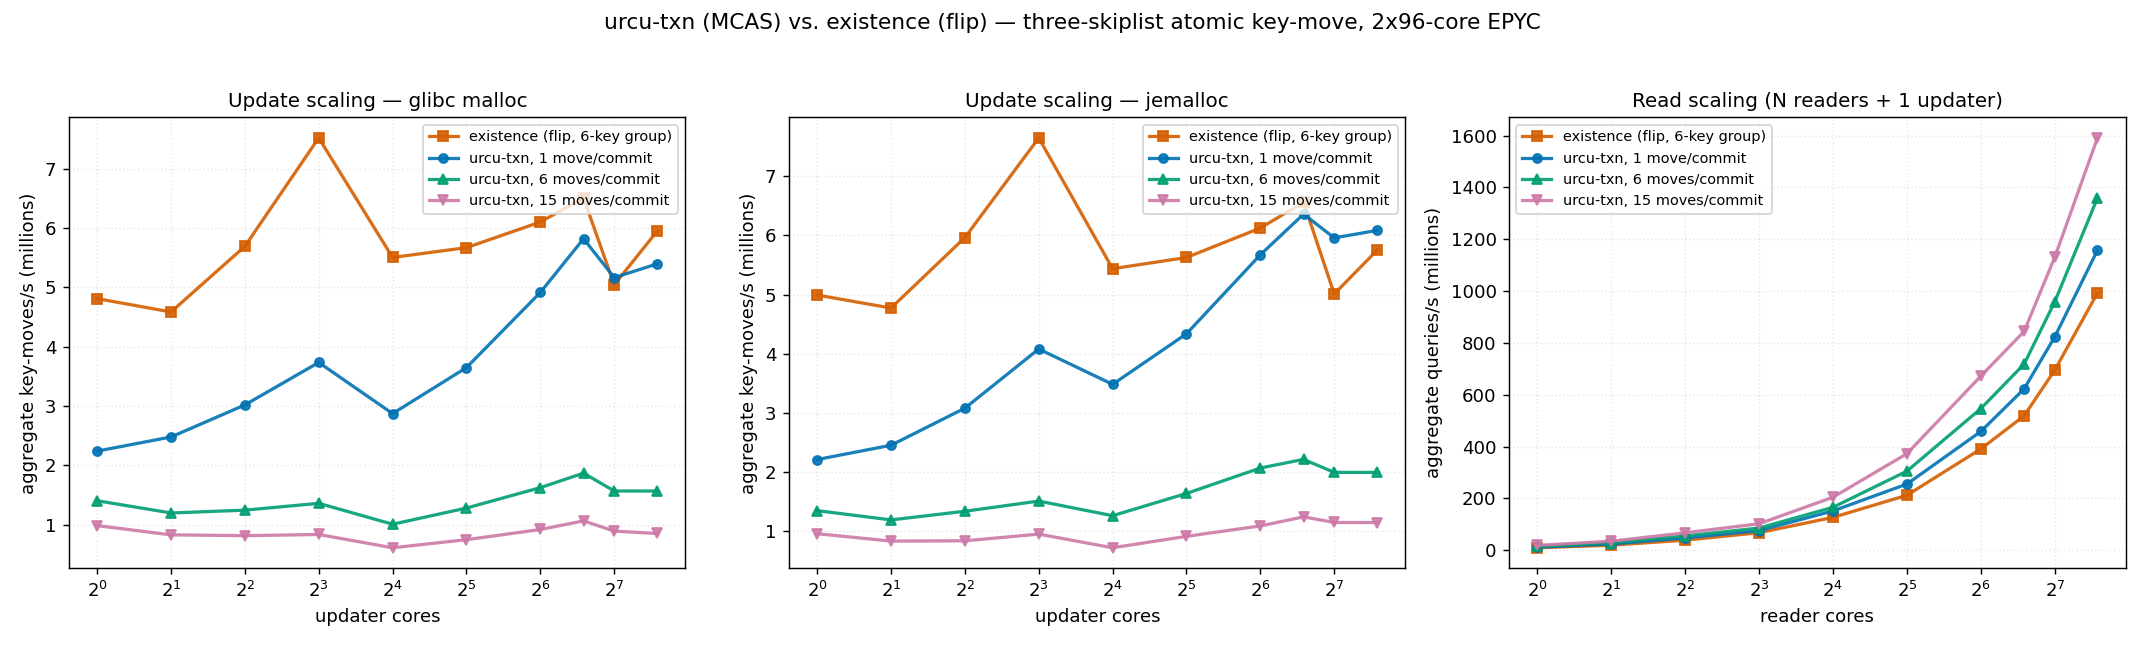
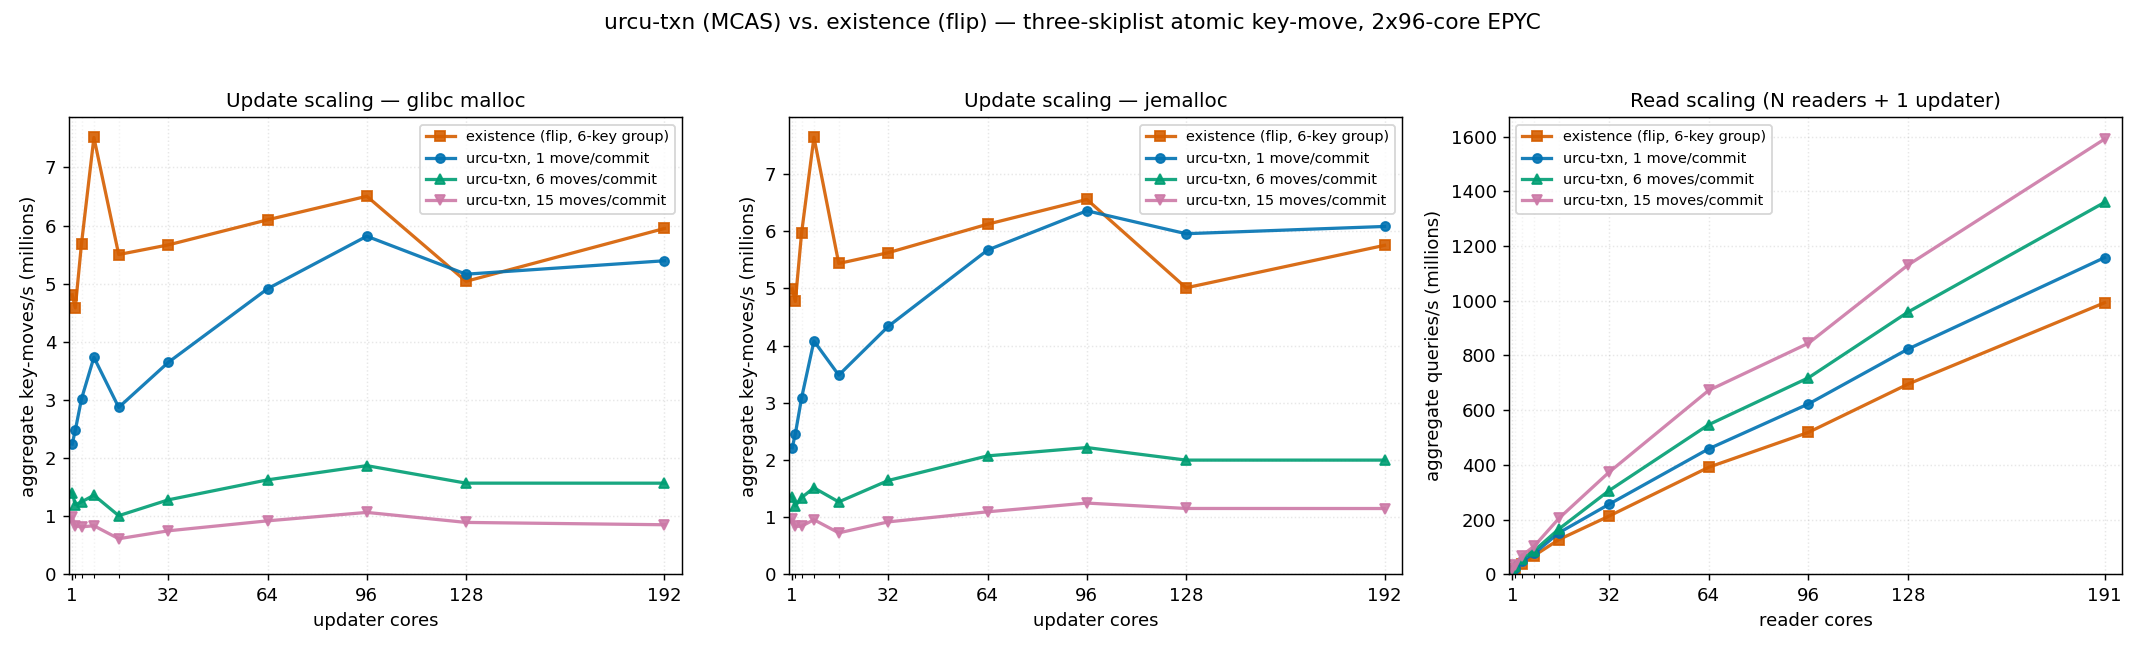
bench_txn_3skiplist: plot core counts on a linear axis with plain labels
The log2 axis compressed 64..192 -- exactly the range where the curves separate
and where the crossover happens -- while spending half the panel on 1..16, where
all four engines sit within about 2x of each other and nothing is decided.  Use a
linear axis, label the ticks with plain core counts instead of 2^n, and keep an
unlabelled minor tick at every measured point so the sampling stays visible.

diff --git a/scripts/plot_txn_vs_existence_skiplist.py b/scripts/plot_txn_vs_existence_skiplist.py
@@ -59,19 +59,34 @@ PANELS = [
      "aggregate queries/s (millions)", "reader cores"),
 ]
 
+"""Core counts are shown on a LINEAR axis with plain integer labels: the sweep is
+about behaviour at high core counts, and a log2 axis compresses exactly the 64-192
+range where the curves separate."""
+MAJOR_TICKS = (1, 32, 64, 96, 128, 191, 192)
+
 fig, axes = plt.subplots(1, 3, figsize=(16.5, 5.0))
 for ax, (title, alloc, mode, ycol, ylab, xlab) in zip(axes, PANELS):
+    seen_x = set()
     for label, ekey, color, marker in ENGINES:
         xs, ys = series(alloc, mode, ekey, ycol)
         if not xs:
             continue
+        seen_x.update(xs)
         ax.plot(xs, ys, marker=marker, color=color, label=label,
                 lw=1.8, ms=5, alpha=0.9)
-    ax.set_xscale("log", base=2)
+    xs_all = sorted(seen_x)
+    major = [x for x in xs_all if x in MAJOR_TICKS]
+    ax.set_xlim(0, max(xs_all) * 1.03)
+    ax.set_xticks(major)
+    ax.set_xticklabels([str(x) for x in major])
+    ax.set_xticks(xs_all, minor=True)     # every measured point, unlabelled
+    ax.set_ylim(bottom=0)
+    ax.ticklabel_format(axis="y", style="plain")
     ax.set_xlabel(xlab)
     ax.set_ylabel(ylab)
     ax.set_title(title, fontsize=11)
     ax.grid(alpha=0.3, ls=":")
+    ax.grid(alpha=0.15, ls=":", which="minor", axis="x")
     ax.legend(fontsize=8, loc="best")
 
 fig.suptitle("urcu-txn (MCAS) vs. existence (flip) — three-skiplist atomic key-move, "
